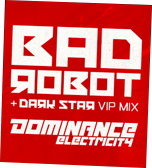
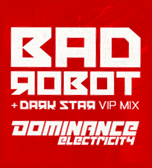
fix crooked bad robot image
And add Dominance Electricity

diff --git a/about.html b/about.html
@@ -110,7 +110,7 @@
 
 <div class="row">
     <div class="col s12">
-<h2>Jackal &amp; Hyde - (Trash Fence Records, U.S.)</h2>
+<h2>Jackal &amp; Hyde - Trash Fence Records (U.S.), Dominance Electricity (Germany)</h2>
 <p>Electro-core reloaded! Five years since their last release, Jackal &amp; Hyde aka <a href="https://www.discogs.com/artist/35393-Scott-Weiser?filter_anv=0&type=Credits">Scott Weiser</a> &amp; Todd Walker re-emerge on Trash Fence Records (U.S.) This duo is responsible for some of the most head strong electro-core bass bangers in the 00s such as Dark Star, Go Bang, Beyond and Sound of Underground. Besides their original work, Jackal &amp; Hyde's sound has been requested for multiple remix productions including Rabbit in the Moon, Kid Rock, Limp Bizkit, Love &amp; Rockets and Genitorturers among others. With their latest offering entitled ‘Bad Robot’ (released on Germany’s legendary <a href="http://www.dominance-electricity.de/">Dominance Electricity</a> label), they continue their mission to create the perfect blend of  relentless club power and futuristic darkness. Jackal and Hyde live shows are eclectic full frontal sonic assaults which appeal to a wide variety of fans from EDM club kids, ravers and break dancers, to goths, gravers and industrial heads alike. For the last decade they have played shows with a wide variety of groups from The Prodigy, Bassnectar and Stanton Warriors to Rabbit in the Moon, Combichrist and Krewella at venues all across the United States and abroad. Always be prepared for an Earth shaking set from these masters of tear out electro.</p>
 </div>
 </div>
